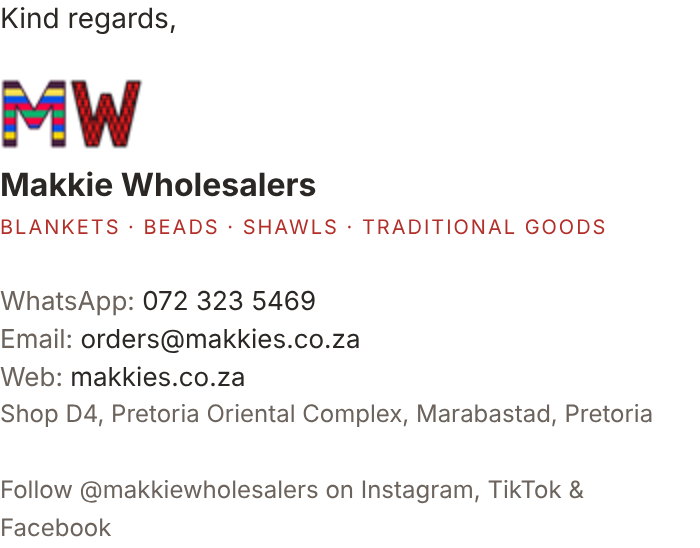
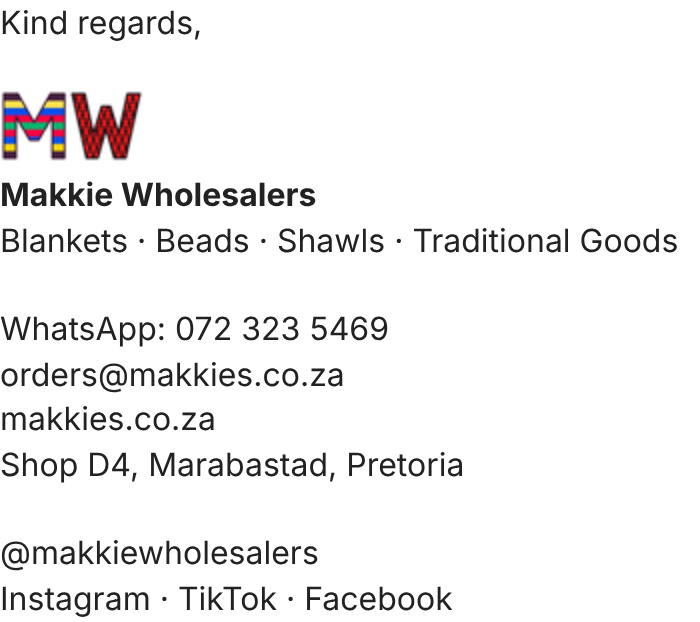
Phone signature: layout tuned for iPhone Mail's plain formatting
Claude-Session: https://claude.ai/code/session_01FrAdmZhbnvV2Pi8Ea2YxmY

diff --git a/marketing/email-signature/makkies-email-signature-phone.html b/marketing/email-signature/makkies-email-signature-phone.html
@@ -1,5 +1,5 @@
 <!doctype html><html><head><meta charset="utf-8"><meta name="viewport" content="width=device-width,initial-scale=1"><title>Makkie Wholesalers phone signature</title></head>
-<body style="margin:20px;background:#fff;font-family:-apple-system,Helvetica,Arial,sans-serif;">
+<body style="margin:20px;background:#fff;font-family:-apple-system,Helvetica,Arial,sans-serif;font-size:16px;color:#222">
 <p style="font-size:13px;color:#888;margin:0 0 16px">On your iPhone: press and hold on "Kind regards", tap <b>Select All</b>, then <b>Copy</b>. Paste it into Settings &rarr; Apps &rarr; Mail &rarr; Signature (delete the old one first).</p>
[2 lines of base64/hex data omitted]
 </body></html>
